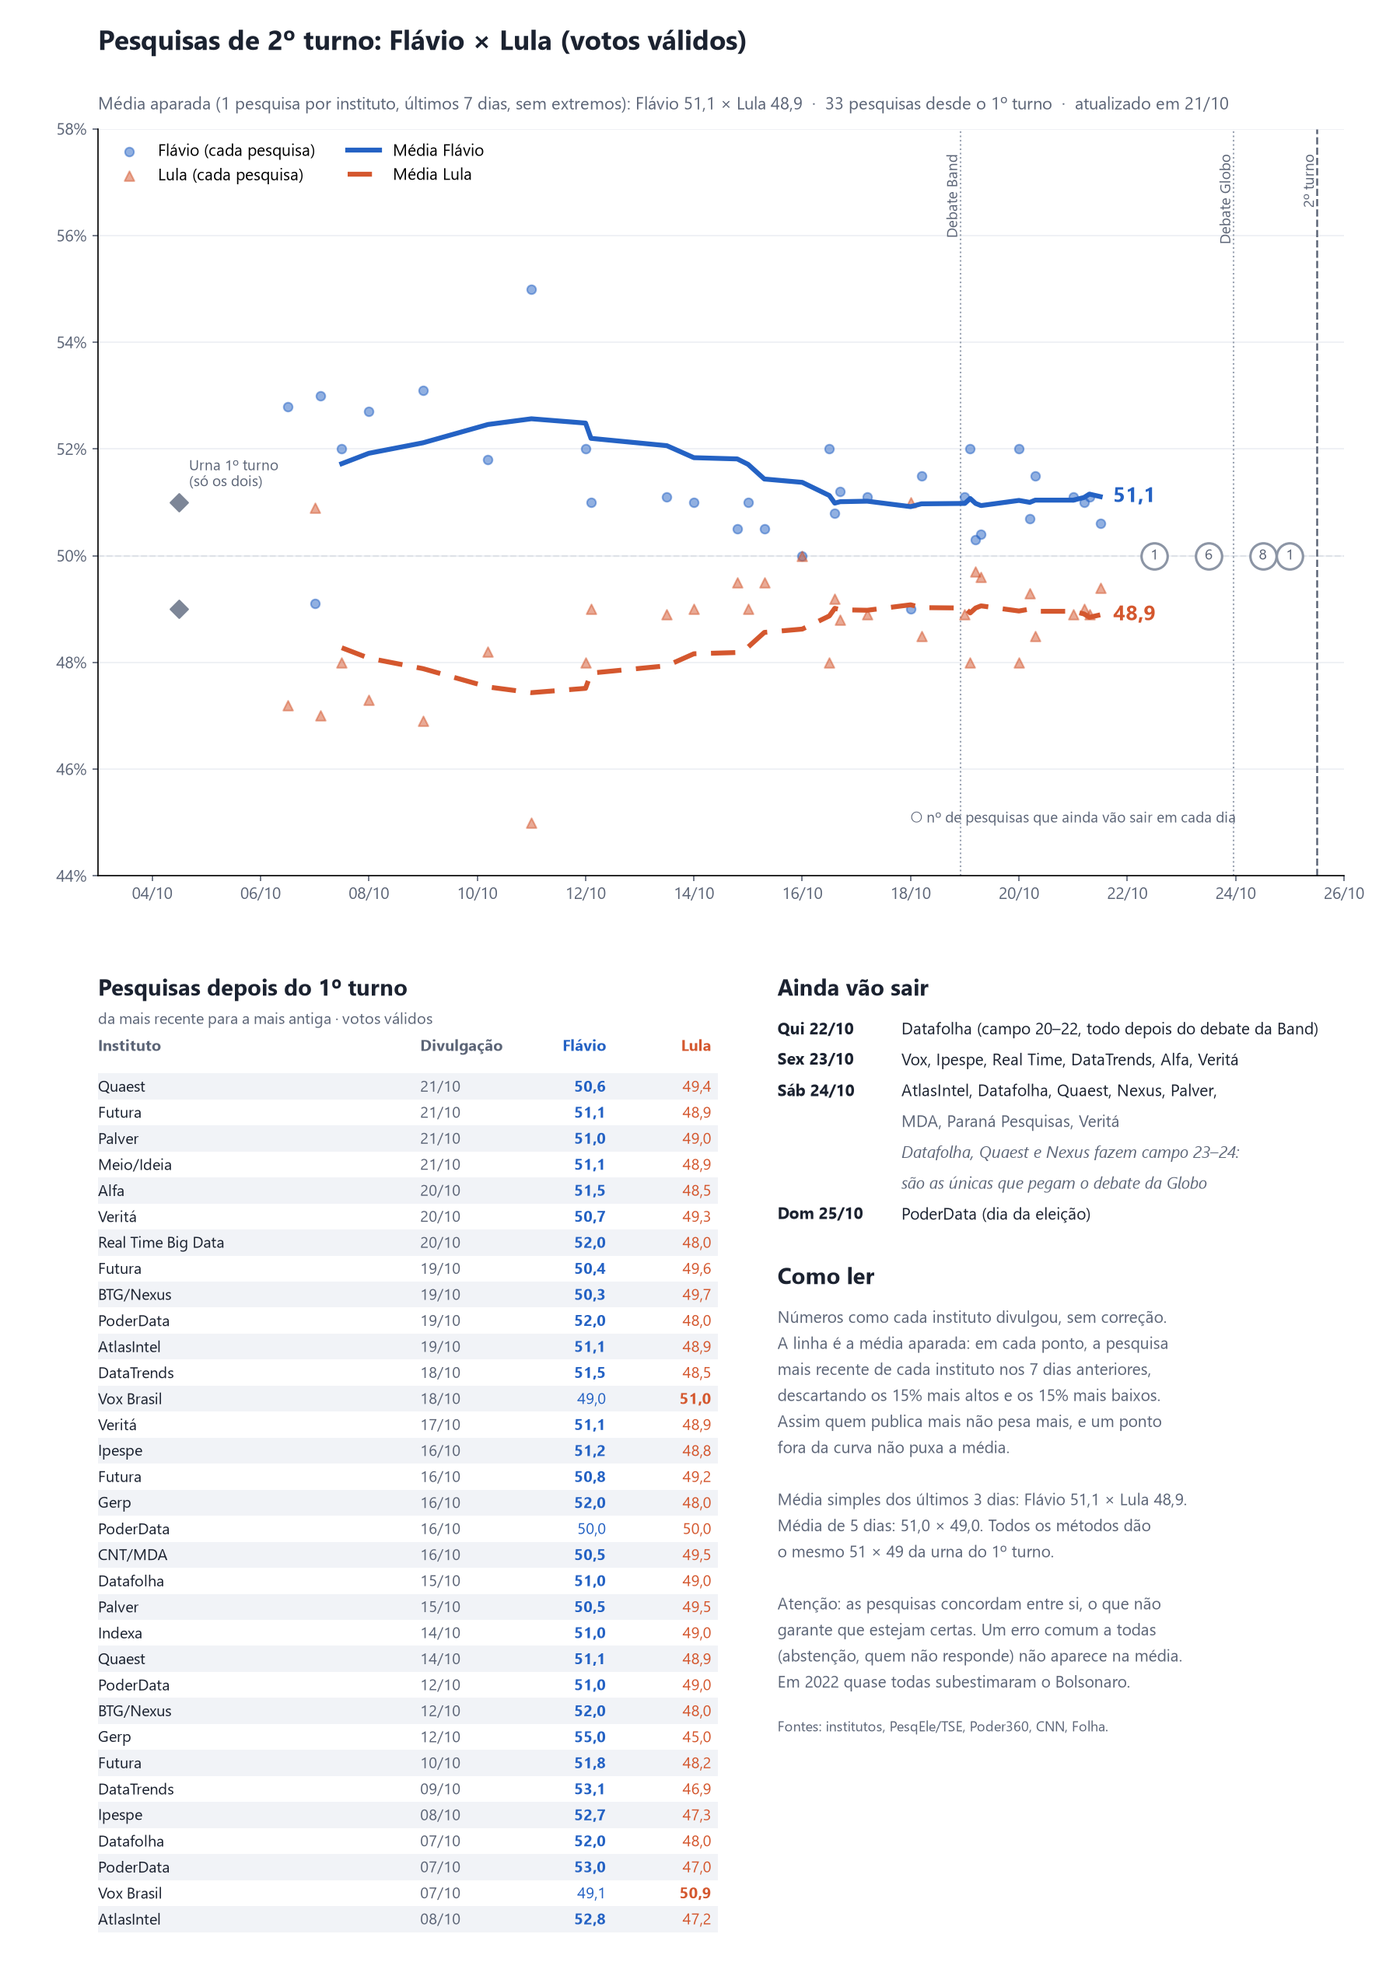
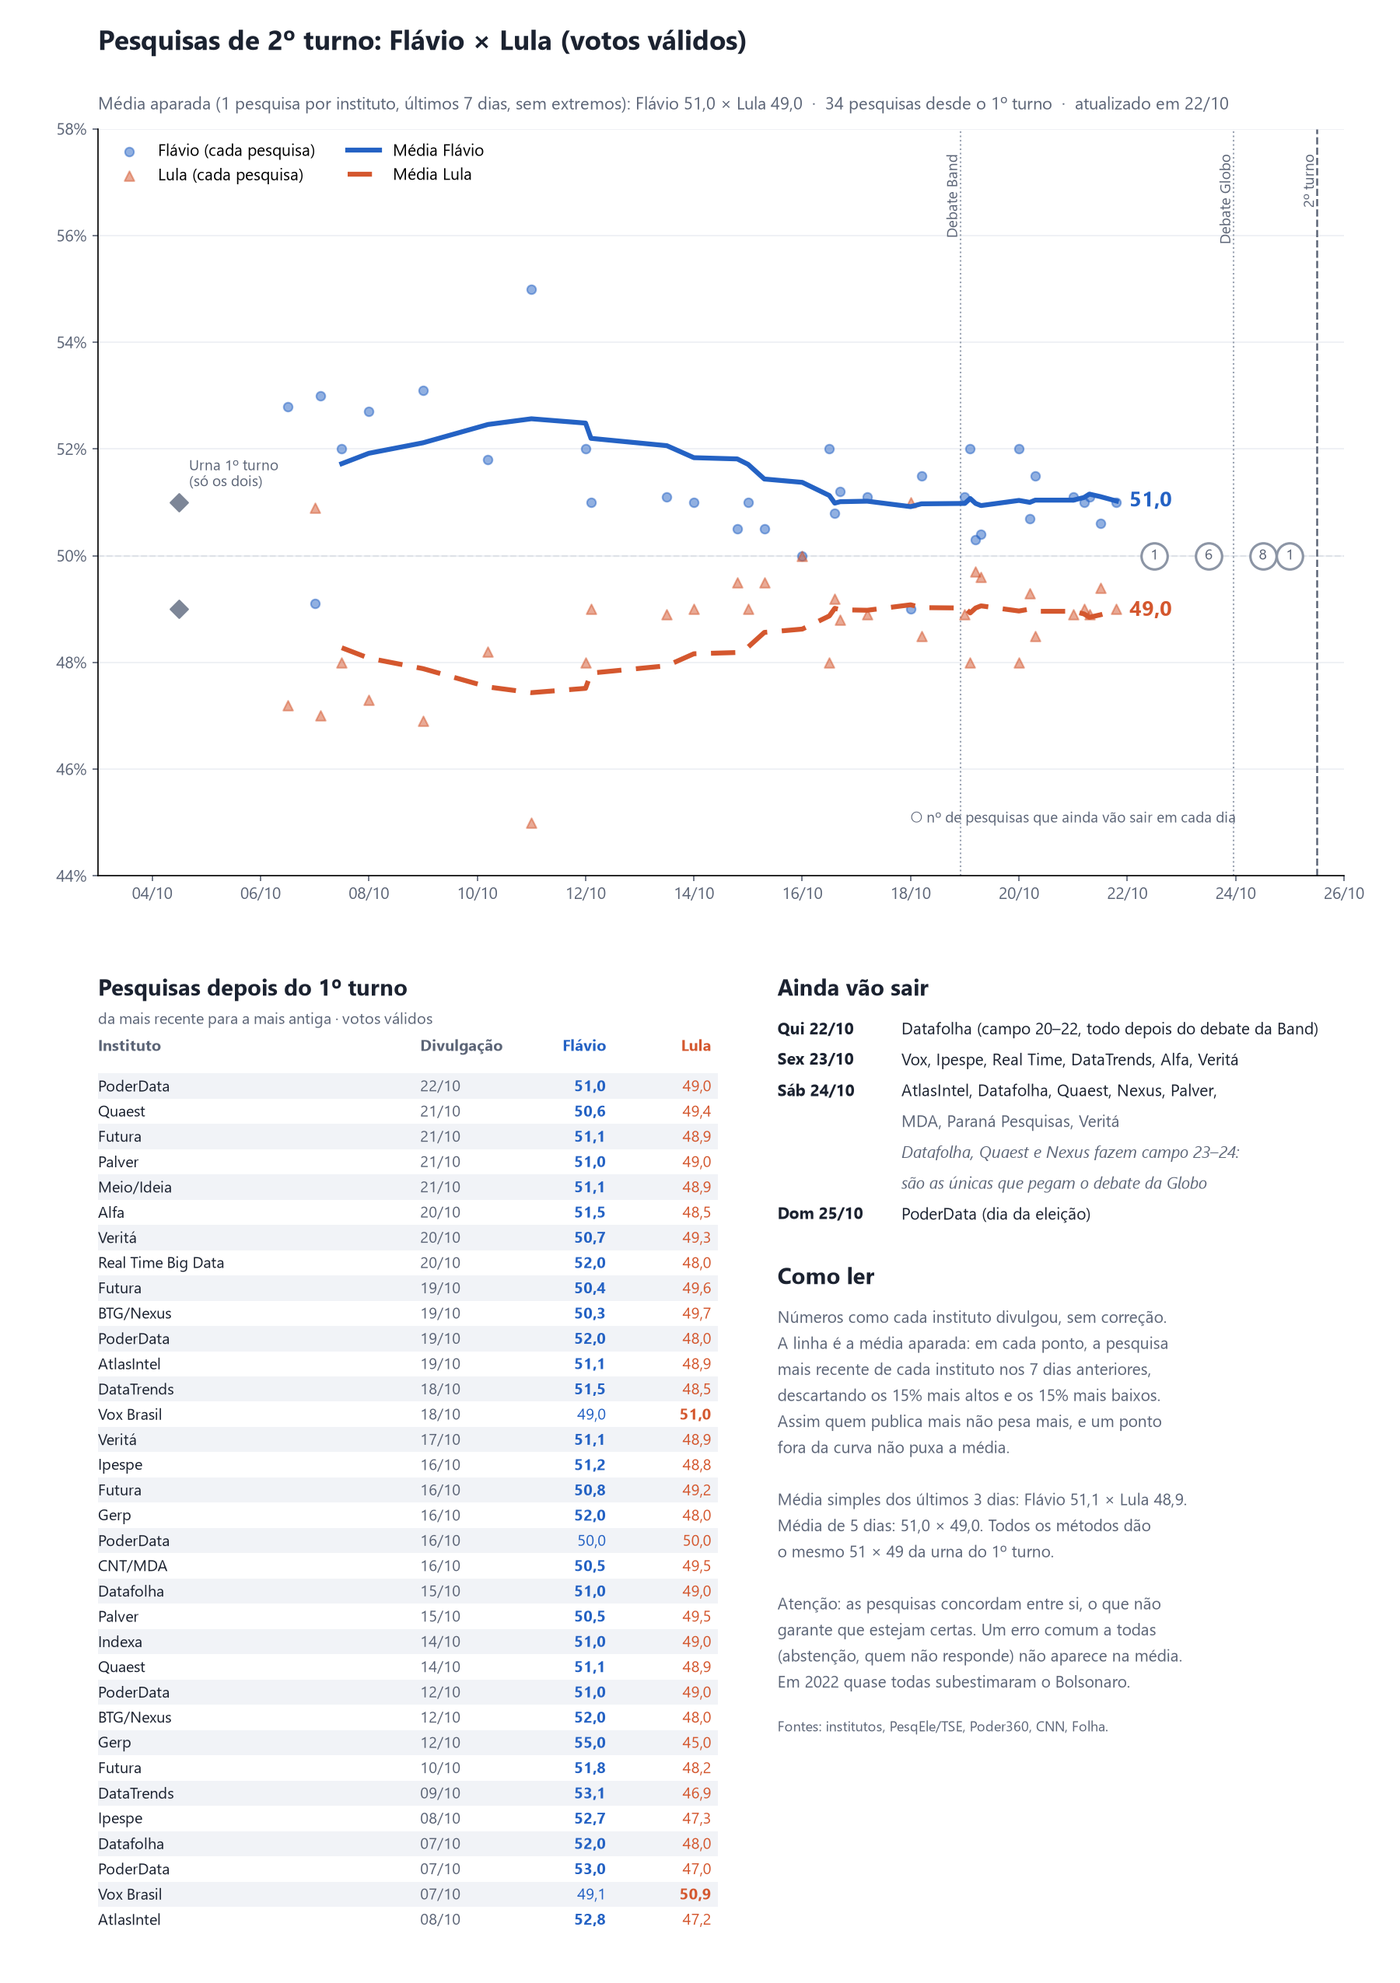
PoderData 19-21/10: 51 x 49

diff --git a/index.html b/index.html
@@ -84,7 +84,7 @@ body{background:var(--color-bg);color:var(--color-fg);font-family:var(--font-ant
 <div class="pq">
   <header class="pq-head" id="topo">
     <h1>Pesquisas Lula x Flávio</h1>
-    <p class="pq-upd">2º turno de 2026 · atualizado em 21/10/2026</p>
+    <p class="pq-upd">2º turno de 2026 · atualizado em 22/10/2026</p>
     <p class="pq-take">
       <span class="pq-modo">Média aparada da última semana</span>, em votos válidos:
       Flávio <b id="tkF" class="dash-skeleton" data-source="media_atual" data-field="flavio" data-where="janela=ap">—</b>
@@ -159,7 +159,7 @@ body{background:var(--color-bg);color:var(--color-fg);font-family:var(--font-ant
 </div>
 
 <script>
-const DATA={pesquisas:[{"id": "1", "ordem": "1", "instituto": "AtlasIntel", "data": "2026-10-02", "dia": "-0.5", "fase": "pre", "flavio": "49.9", "lula": "50.1"}, {"id": "2", "ordem": "2", "instituto": "Vox Brasil", "data": "2026-10-01", "dia": "0", "fase": "pre", "flavio": "51.6", "lula": "48.4"}, {"id": "3", "ordem": "3", "instituto": "MDA", "data": "2026-10-02", "dia": "0.5", "fase": "pre", "flavio": "47.8", "lula": "52.2"}, {"id": "4", "ordem": "4", "instituto": "PoderData", "data": "2026-10-02", "dia": "1", "fase": "pre", "flavio": "50.0", "lula": "50.0"}, {"id": "5", "ordem": "5", "instituto": "Palver", "data": "2026-10-03", "dia": "1.5", "fase": "pre", "flavio": "52.7", "lula": "47.3"}, {"id": "6", "ordem": "6", "instituto": "Quaest", "data": "2026-10-03", "dia": "2.5", "fase": "pre", "flavio": "51.2", "lula": "48.8"}, {"id": "7", "ordem": "7", "instituto": "Futura", "data": "2026-10-03", "dia": "2.6", "fase": "pre", "flavio": "51.6", "lula": "48.4"}, {"id": "8", "ordem": "8", "instituto": "Datafolha", "data": "2026-10-03", "dia": "3", "fase": "pre", "flavio": "49.5", "lula": "50.5"}, {"id": "9", "ordem": "9", "instituto": "Urna 1º turno (só os dois)", "data": "2026-10-04", "dia": "4", "fase": "urna", "flavio": "51.0", "lula": "49.0"}, {"id": "10", "ordem": "10", "instituto": "AtlasIntel", "data": "2026-10-08", "dia": "5.5", "fase": "pos", "flavio": "52.8", "lula": "47.2"}, {"id": "11", "ordem": "11", "instituto": "Vox Brasil", "data": "2026-10-07", "dia": "6", "fase": "pos", "flavio": "49.1", "lula": "50.9"}, {"id": "12", "ordem": "12", "instituto": "PoderData", "data": "2026-10-07", "dia": "6.1", "fase": "pos", "flavio": "53.0", "lula": "47.0"}, {"id": "13", "ordem": "13", "instituto": "Datafolha", "data": "2026-10-07", "dia": "6.5", "fase": "pos", "flavio": "52.0", "lula": "48.0"}, {"id": "14", "ordem": "14", "instituto": "Ipespe", "data": "2026-10-08", "dia": "7", "fase": "pos", "flavio": "52.7", "lula": "47.3"}, {"id": "15", "ordem": "15", "instituto": "DataTrends", "data": "2026-10-09", "dia": "8", "fase": "pos", "flavio": "53.1", "lula": "46.9"}, {"id": "39", "ordem": "16", "instituto": "Futura", "data": "2026-10-10", "dia": "9.2", "fase": "pos", "flavio": "51.8", "lula": "48.2"}, {"id": "16", "ordem": "17", "instituto": "Gerp", "data": "2026-10-12", "dia": "10", "fase": "pos", "flavio": "55.0", "lula": "45.0"}, {"id": "17", "ordem": "18", "instituto": "BTG/Nexus", "data": "2026-10-12", "dia": "11", "fase": "pos", "flavio": "52.0", "lula": "48.0"}, {"id": "18", "ordem": "19", "instituto": "PoderData", "data": "2026-10-12", "dia": "11.1", "fase": "pos", "flavio": "51.0", "lula": "49.0"}, {"id": "19", "ordem": "20", "instituto": "Quaest", "data": "2026-10-14", "dia": "12.5", "fase": "pos", "flavio": "51.1", "lula": "48.9"}, {"id": "20", "ordem": "21", "instituto": "Indexa", "data": "2026-10-14", "dia": "13", "fase": "pos", "flavio": "51.0", "lula": "49.0"}, {"id": "21", "ordem": "22", "instituto": "Palver", "data": "2026-10-15", "dia": "13.8", "fase": "pos", "flavio": "50.5", "lula": "49.5"}, {"id": "22", "ordem": "23", "instituto": "Datafolha", "data": "2026-10-15", "dia": "14", "fase": "pos", "flavio": "51.0", "lula": "49.0"}, {"id": "23", "ordem": "24", "instituto": "CNT/MDA", "data": "2026-10-16", "dia": "14.3", "fase": "pos", "flavio": "50.5", "lula": "49.5"}, {"id": "24", "ordem": "25", "instituto": "PoderData", "data": "2026-10-16", "dia": "15", "fase": "pos", "flavio": "50.0", "lula": "50.0"}, {"id": "25", "ordem": "26", "instituto": "Gerp", "data": "2026-10-16", "dia": "15.5", "fase": "pos", "flavio": "52.0", "lula": "48.0"}, {"id": "26", "ordem": "27", "instituto": "Futura", "data": "2026-10-16", "dia": "15.6", "fase": "pos", "flavio": "50.8", "lula": "49.2"}, {"id": "27", "ordem": "28", "instituto": "Ipespe", "data": "2026-10-16", "dia": "15.7", "fase": "pos", "flavio": "51.2", "lula": "48.8"}, {"id": "40", "ordem": "29", "instituto": "Veritá", "data": "2026-10-17", "dia": "16.2", "fase": "pos", "flavio": "51.1", "lula": "48.9"}, {"id": "28", "ordem": "30", "instituto": "Vox Brasil", "data": "2026-10-18", "dia": "17", "fase": "pos", "flavio": "49.0", "lula": "51.0"}, {"id": "41", "ordem": "31", "instituto": "DataTrends", "data": "2026-10-18", "dia": "17.2", "fase": "pos", "flavio": "51.5", "lula": "48.5"}, {"id": "29", "ordem": "32", "instituto": "AtlasIntel", "data": "2026-10-19", "dia": "18", "fase": "pos", "flavio": "51.1", "lula": "48.9"}, {"id": "30", "ordem": "33", "instituto": "PoderData", "data": "2026-10-19", "dia": "18.1", "fase": "pos", "flavio": "52.0", "lula": "48.0"}, {"id": "31", "ordem": "34", "instituto": "BTG/Nexus", "data": "2026-10-19", "dia": "18.2", "fase": "pos", "flavio": "50.3", "lula": "49.7"}, {"id": "32", "ordem": "35", "instituto": "Futura", "data": "2026-10-19", "dia": "18.3", "fase": "pos", "flavio": "50.4", "lula": "49.6"}, {"id": "33", "ordem": "36", "instituto": "Real Time Big Data", "data": "2026-10-20", "dia": "19", "fase": "pos", "flavio": "52.0", "lula": "48.0"}, {"id": "42", "ordem": "37", "instituto": "Veritá", "data": "2026-10-20", "dia": "19.2", "fase": "pos", "flavio": "50.7", "lula": "49.3"}, {"id": "43", "ordem": "38", "instituto": "Alfa", "data": "2026-10-20", "dia": "19.3", "fase": "pos", "flavio": "51.5", "lula": "48.5"}, {"id": "34", "ordem": "39", "instituto": "Meio/Ideia", "data": "2026-10-21", "dia": "20", "fase": "pos", "flavio": "51.1", "lula": "48.9"}, {"id": "44", "ordem": "40", "instituto": "Palver", "data": "2026-10-21", "dia": "20.2", "fase": "pos", "flavio": "51.0", "lula": "49.0"}, {"id": "45", "ordem": "41", "instituto": "Futura", "data": "2026-10-21", "dia": "20.3", "fase": "pos", "flavio": "51.1", "lula": "48.9"}, {"id": "35", "ordem": "42", "instituto": "Quaest", "data": "2026-10-21", "dia": "20.5", "fase": "pos", "flavio": "50.6", "lula": "49.4"}, {"id": "46", "ordem": "43", "instituto": "Datafolha", "data": "2026-10-22", "dia": "21.0", "fase": "agendada", "flavio": "", "lula": ""}, {"id": "47", "ordem": "44", "instituto": "Vox Brasil", "data": "2026-10-23", "dia": "22.0", "fase": "agendada", "flavio": "", "lula": ""}, {"id": "48", "ordem": "45", "instituto": "Ipespe", "data": "2026-10-23", "dia": "22.05", "fase": "agendada", "flavio": "", "lula": ""}, {"id": "49", "ordem": "46", "instituto": "Real Time Big Data", "data": "2026-10-23", "dia": "22.1", "fase": "agendada", "flavio": "", "lula": ""}, {"id": "50", "ordem": "47", "instituto": "DataTrends", "data": "2026-10-23", "dia": "22.15", "fase": "agendada", "flavio": "", "lula": ""}, {"id": "51", "ordem": "48", "instituto": "Alfa", "data": "2026-10-23", "dia": "22.2", "fase": "agendada", "flavio": "", "lula": ""}, {"id": "52", "ordem": "49", "instituto": "Veritá", "data": "2026-10-23", "dia": "22.25", "fase": "agendada", "flavio": "", "lula": ""}, {"id": "53", "ordem": "50", "instituto": "AtlasIntel", "data": "2026-10-24", "dia": "23.0", "fase": "agendada", "flavio": "", "lula": ""}, {"id": "54", "ordem": "51", "instituto": "Datafolha", "data": "2026-10-24", "dia": "23.05", "fase": "agendada", "flavio": "", "lula": ""}, {"id": "55", "ordem": "52", "instituto": "Quaest", "data": "2026-10-24", "dia": "23.1", "fase": "agendada", "flavio": "", "lula": ""}, {"id": "56", "ordem": "53", "instituto": "BTG/Nexus", "data": "2026-10-24", "dia": "23.15", "fase": "agendada", "flavio": "", "lula": ""}, {"id": "57", "ordem": "54", "instituto": "Palver", "data": "2026-10-24", "dia": "23.2", "fase": "agendada", "flavio": "", "lula": ""}, {"id": "58", "ordem": "55", "instituto": "CNT/MDA", "data": "2026-10-24", "dia": "23.25", "fase": "agendada", "flavio": "", "lula": ""}, {"id": "59", "ordem": "56", "instituto": "Paraná Pesquisas", "data": "2026-10-24", "dia": "23.3", "fase": "agendada", "flavio": "", "lula": ""}, {"id": "60", "ordem": "57", "instituto": "Veritá", "data": "2026-10-24", "dia": "23.35", "fase": "agendada", "flavio": "", "lula": ""}, {"id": "61", "ordem": "58", "instituto": "PoderData", "data": "2026-10-25", "dia": "23.8", "fase": "agendada", "flavio": "", "lula": ""}, {"id": "38", "ordem": "59", "instituto": "Eleição (2º turno)", "data": "2026-10-25", "dia": "24", "fase": "eleicao", "flavio": "", "lula": ""}]};
+const DATA={pesquisas:[{"id": "1", "ordem": "1", "instituto": "AtlasIntel", "data": "2026-10-02", "dia": "-0.5", "fase": "pre", "flavio": "49.9", "lula": "50.1"}, {"id": "2", "ordem": "2", "instituto": "Vox Brasil", "data": "2026-10-01", "dia": "0", "fase": "pre", "flavio": "51.6", "lula": "48.4"}, {"id": "3", "ordem": "3", "instituto": "MDA", "data": "2026-10-02", "dia": "0.5", "fase": "pre", "flavio": "47.8", "lula": "52.2"}, {"id": "4", "ordem": "4", "instituto": "PoderData", "data": "2026-10-02", "dia": "1", "fase": "pre", "flavio": "50.0", "lula": "50.0"}, {"id": "5", "ordem": "5", "instituto": "Palver", "data": "2026-10-03", "dia": "1.5", "fase": "pre", "flavio": "52.7", "lula": "47.3"}, {"id": "6", "ordem": "6", "instituto": "Quaest", "data": "2026-10-03", "dia": "2.5", "fase": "pre", "flavio": "51.2", "lula": "48.8"}, {"id": "7", "ordem": "7", "instituto": "Futura", "data": "2026-10-03", "dia": "2.6", "fase": "pre", "flavio": "51.6", "lula": "48.4"}, {"id": "8", "ordem": "8", "instituto": "Datafolha", "data": "2026-10-03", "dia": "3", "fase": "pre", "flavio": "49.5", "lula": "50.5"}, {"id": "9", "ordem": "9", "instituto": "Urna 1º turno (só os dois)", "data": "2026-10-04", "dia": "4", "fase": "urna", "flavio": "51.0", "lula": "49.0"}, {"id": "10", "ordem": "10", "instituto": "AtlasIntel", "data": "2026-10-08", "dia": "5.5", "fase": "pos", "flavio": "52.8", "lula": "47.2"}, {"id": "11", "ordem": "11", "instituto": "Vox Brasil", "data": "2026-10-07", "dia": "6", "fase": "pos", "flavio": "49.1", "lula": "50.9"}, {"id": "12", "ordem": "12", "instituto": "PoderData", "data": "2026-10-07", "dia": "6.1", "fase": "pos", "flavio": "53.0", "lula": "47.0"}, {"id": "13", "ordem": "13", "instituto": "Datafolha", "data": "2026-10-07", "dia": "6.5", "fase": "pos", "flavio": "52.0", "lula": "48.0"}, {"id": "14", "ordem": "14", "instituto": "Ipespe", "data": "2026-10-08", "dia": "7", "fase": "pos", "flavio": "52.7", "lula": "47.3"}, {"id": "15", "ordem": "15", "instituto": "DataTrends", "data": "2026-10-09", "dia": "8", "fase": "pos", "flavio": "53.1", "lula": "46.9"}, {"id": "39", "ordem": "16", "instituto": "Futura", "data": "2026-10-10", "dia": "9.2", "fase": "pos", "flavio": "51.8", "lula": "48.2"}, {"id": "16", "ordem": "17", "instituto": "Gerp", "data": "2026-10-12", "dia": "10", "fase": "pos", "flavio": "55.0", "lula": "45.0"}, {"id": "17", "ordem": "18", "instituto": "BTG/Nexus", "data": "2026-10-12", "dia": "11", "fase": "pos", "flavio": "52.0", "lula": "48.0"}, {"id": "18", "ordem": "19", "instituto": "PoderData", "data": "2026-10-12", "dia": "11.1", "fase": "pos", "flavio": "51.0", "lula": "49.0"}, {"id": "19", "ordem": "20", "instituto": "Quaest", "data": "2026-10-14", "dia": "12.5", "fase": "pos", "flavio": "51.1", "lula": "48.9"}, {"id": "20", "ordem": "21", "instituto": "Indexa", "data": "2026-10-14", "dia": "13", "fase": "pos", "flavio": "51.0", "lula": "49.0"}, {"id": "21", "ordem": "22", "instituto": "Palver", "data": "2026-10-15", "dia": "13.8", "fase": "pos", "flavio": "50.5", "lula": "49.5"}, {"id": "22", "ordem": "23", "instituto": "Datafolha", "data": "2026-10-15", "dia": "14", "fase": "pos", "flavio": "51.0", "lula": "49.0"}, {"id": "23", "ordem": "24", "instituto": "CNT/MDA", "data": "2026-10-16", "dia": "14.3", "fase": "pos", "flavio": "50.5", "lula": "49.5"}, {"id": "24", "ordem": "25", "instituto": "PoderData", "data": "2026-10-16", "dia": "15", "fase": "pos", "flavio": "50.0", "lula": "50.0"}, {"id": "25", "ordem": "26", "instituto": "Gerp", "data": "2026-10-16", "dia": "15.5", "fase": "pos", "flavio": "52.0", "lula": "48.0"}, {"id": "26", "ordem": "27", "instituto": "Futura", "data": "2026-10-16", "dia": "15.6", "fase": "pos", "flavio": "50.8", "lula": "49.2"}, {"id": "27", "ordem": "28", "instituto": "Ipespe", "data": "2026-10-16", "dia": "15.7", "fase": "pos", "flavio": "51.2", "lula": "48.8"}, {"id": "40", "ordem": "29", "instituto": "Veritá", "data": "2026-10-17", "dia": "16.2", "fase": "pos", "flavio": "51.1", "lula": "48.9"}, {"id": "28", "ordem": "30", "instituto": "Vox Brasil", "data": "2026-10-18", "dia": "17", "fase": "pos", "flavio": "49.0", "lula": "51.0"}, {"id": "41", "ordem": "31", "instituto": "DataTrends", "data": "2026-10-18", "dia": "17.2", "fase": "pos", "flavio": "51.5", "lula": "48.5"}, {"id": "29", "ordem": "32", "instituto": "AtlasIntel", "data": "2026-10-19", "dia": "18", "fase": "pos", "flavio": "51.1", "lula": "48.9"}, {"id": "30", "ordem": "33", "instituto": "PoderData", "data": "2026-10-19", "dia": "18.1", "fase": "pos", "flavio": "52.0", "lula": "48.0"}, {"id": "31", "ordem": "34", "instituto": "BTG/Nexus", "data": "2026-10-19", "dia": "18.2", "fase": "pos", "flavio": "50.3", "lula": "49.7"}, {"id": "32", "ordem": "35", "instituto": "Futura", "data": "2026-10-19", "dia": "18.3", "fase": "pos", "flavio": "50.4", "lula": "49.6"}, {"id": "33", "ordem": "36", "instituto": "Real Time Big Data", "data": "2026-10-20", "dia": "19", "fase": "pos", "flavio": "52.0", "lula": "48.0"}, {"id": "42", "ordem": "37", "instituto": "Veritá", "data": "2026-10-20", "dia": "19.2", "fase": "pos", "flavio": "50.7", "lula": "49.3"}, {"id": "43", "ordem": "38", "instituto": "Alfa", "data": "2026-10-20", "dia": "19.3", "fase": "pos", "flavio": "51.5", "lula": "48.5"}, {"id": "34", "ordem": "39", "instituto": "Meio/Ideia", "data": "2026-10-21", "dia": "20", "fase": "pos", "flavio": "51.1", "lula": "48.9"}, {"id": "44", "ordem": "40", "instituto": "Palver", "data": "2026-10-21", "dia": "20.2", "fase": "pos", "flavio": "51.0", "lula": "49.0"}, {"id": "45", "ordem": "41", "instituto": "Futura", "data": "2026-10-21", "dia": "20.3", "fase": "pos", "flavio": "51.1", "lula": "48.9"}, {"id": "35", "ordem": "42", "instituto": "Quaest", "data": "2026-10-21", "dia": "20.5", "fase": "pos", "flavio": "50.6", "lula": "49.4"}, {"id": "62", "ordem": "43", "instituto": "PoderData", "data": "2026-10-22", "dia": "20.8", "fase": "pos", "flavio": "51.0", "lula": "49.0"}, {"id": "46", "ordem": "44", "instituto": "Datafolha", "data": "2026-10-22", "dia": "21.0", "fase": "agendada", "flavio": "", "lula": ""}, {"id": "47", "ordem": "45", "instituto": "Vox Brasil", "data": "2026-10-23", "dia": "22.0", "fase": "agendada", "flavio": "", "lula": ""}, {"id": "48", "ordem": "46", "instituto": "Ipespe", "data": "2026-10-23", "dia": "22.05", "fase": "agendada", "flavio": "", "lula": ""}, {"id": "49", "ordem": "47", "instituto": "Real Time Big Data", "data": "2026-10-23", "dia": "22.1", "fase": "agendada", "flavio": "", "lula": ""}, {"id": "50", "ordem": "48", "instituto": "DataTrends", "data": "2026-10-23", "dia": "22.15", "fase": "agendada", "flavio": "", "lula": ""}, {"id": "51", "ordem": "49", "instituto": "Alfa", "data": "2026-10-23", "dia": "22.2", "fase": "agendada", "flavio": "", "lula": ""}, {"id": "52", "ordem": "50", "instituto": "Veritá", "data": "2026-10-23", "dia": "22.25", "fase": "agendada", "flavio": "", "lula": ""}, {"id": "53", "ordem": "51", "instituto": "AtlasIntel", "data": "2026-10-24", "dia": "23.0", "fase": "agendada", "flavio": "", "lula": ""}, {"id": "54", "ordem": "52", "instituto": "Datafolha", "data": "2026-10-24", "dia": "23.05", "fase": "agendada", "flavio": "", "lula": ""}, {"id": "55", "ordem": "53", "instituto": "Quaest", "data": "2026-10-24", "dia": "23.1", "fase": "agendada", "flavio": "", "lula": ""}, {"id": "56", "ordem": "54", "instituto": "BTG/Nexus", "data": "2026-10-24", "dia": "23.15", "fase": "agendada", "flavio": "", "lula": ""}, {"id": "57", "ordem": "55", "instituto": "Palver", "data": "2026-10-24", "dia": "23.2", "fase": "agendada", "flavio": "", "lula": ""}, {"id": "58", "ordem": "56", "instituto": "CNT/MDA", "data": "2026-10-24", "dia": "23.25", "fase": "agendada", "flavio": "", "lula": ""}, {"id": "59", "ordem": "57", "instituto": "Paraná Pesquisas", "data": "2026-10-24", "dia": "23.3", "fase": "agendada", "flavio": "", "lula": ""}, {"id": "60", "ordem": "58", "instituto": "Veritá", "data": "2026-10-24", "dia": "23.35", "fase": "agendada", "flavio": "", "lula": ""}, {"id": "61", "ordem": "59", "instituto": "PoderData", "data": "2026-10-25", "dia": "23.8", "fase": "agendada", "flavio": "", "lula": ""}, {"id": "38", "ordem": "60", "instituto": "Eleição (2º turno)", "data": "2026-10-25", "dia": "24", "fase": "eleicao", "flavio": "", "lula": ""}]};
 const _cs=getComputedStyle(document.documentElement);
 const dash={calc:(n,o)=>{DATA[n]=o.fn(DATA.pesquisas);},data:n=>({status:'ok',data:DATA[n]}),
   get colors(){const s=getComputedStyle(document.documentElement);return [s.getPropertyValue('--c-flavio').trim(),s.getPropertyValue('--c-lula').trim()];},
